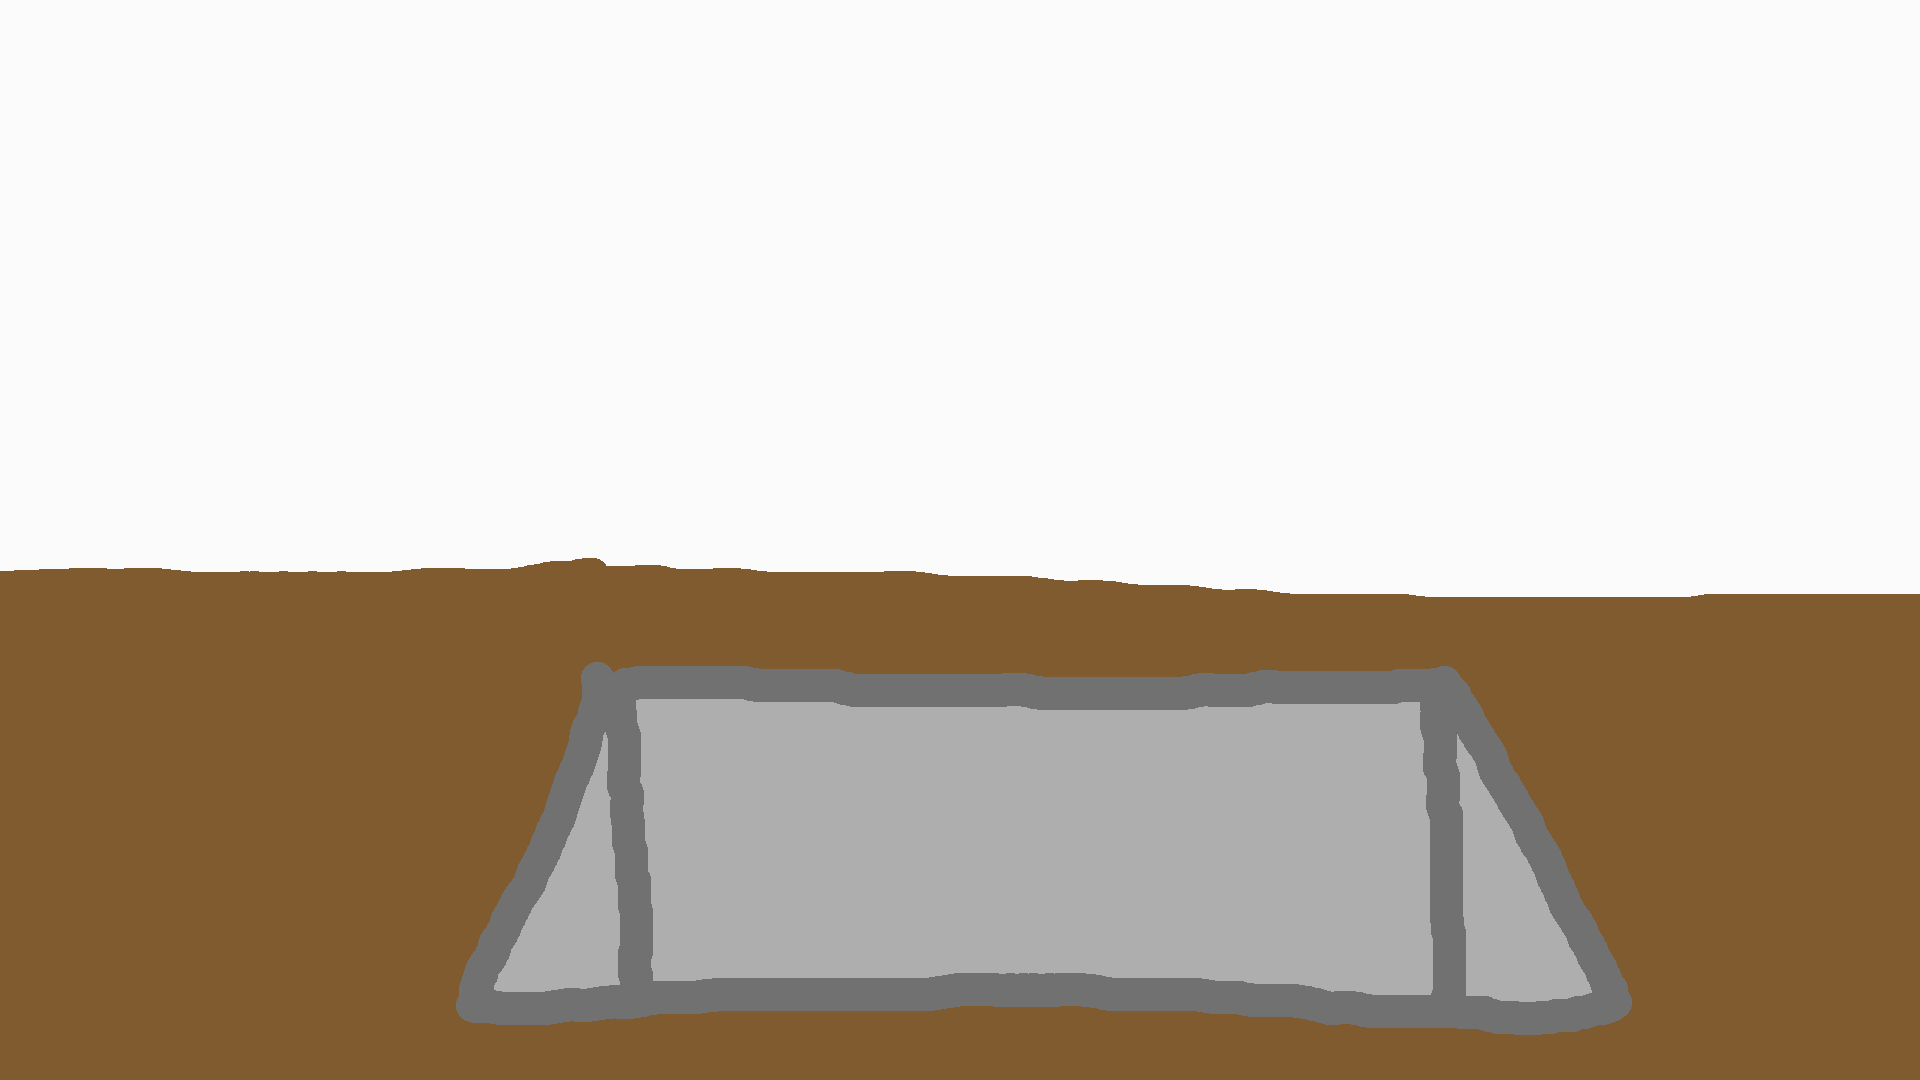
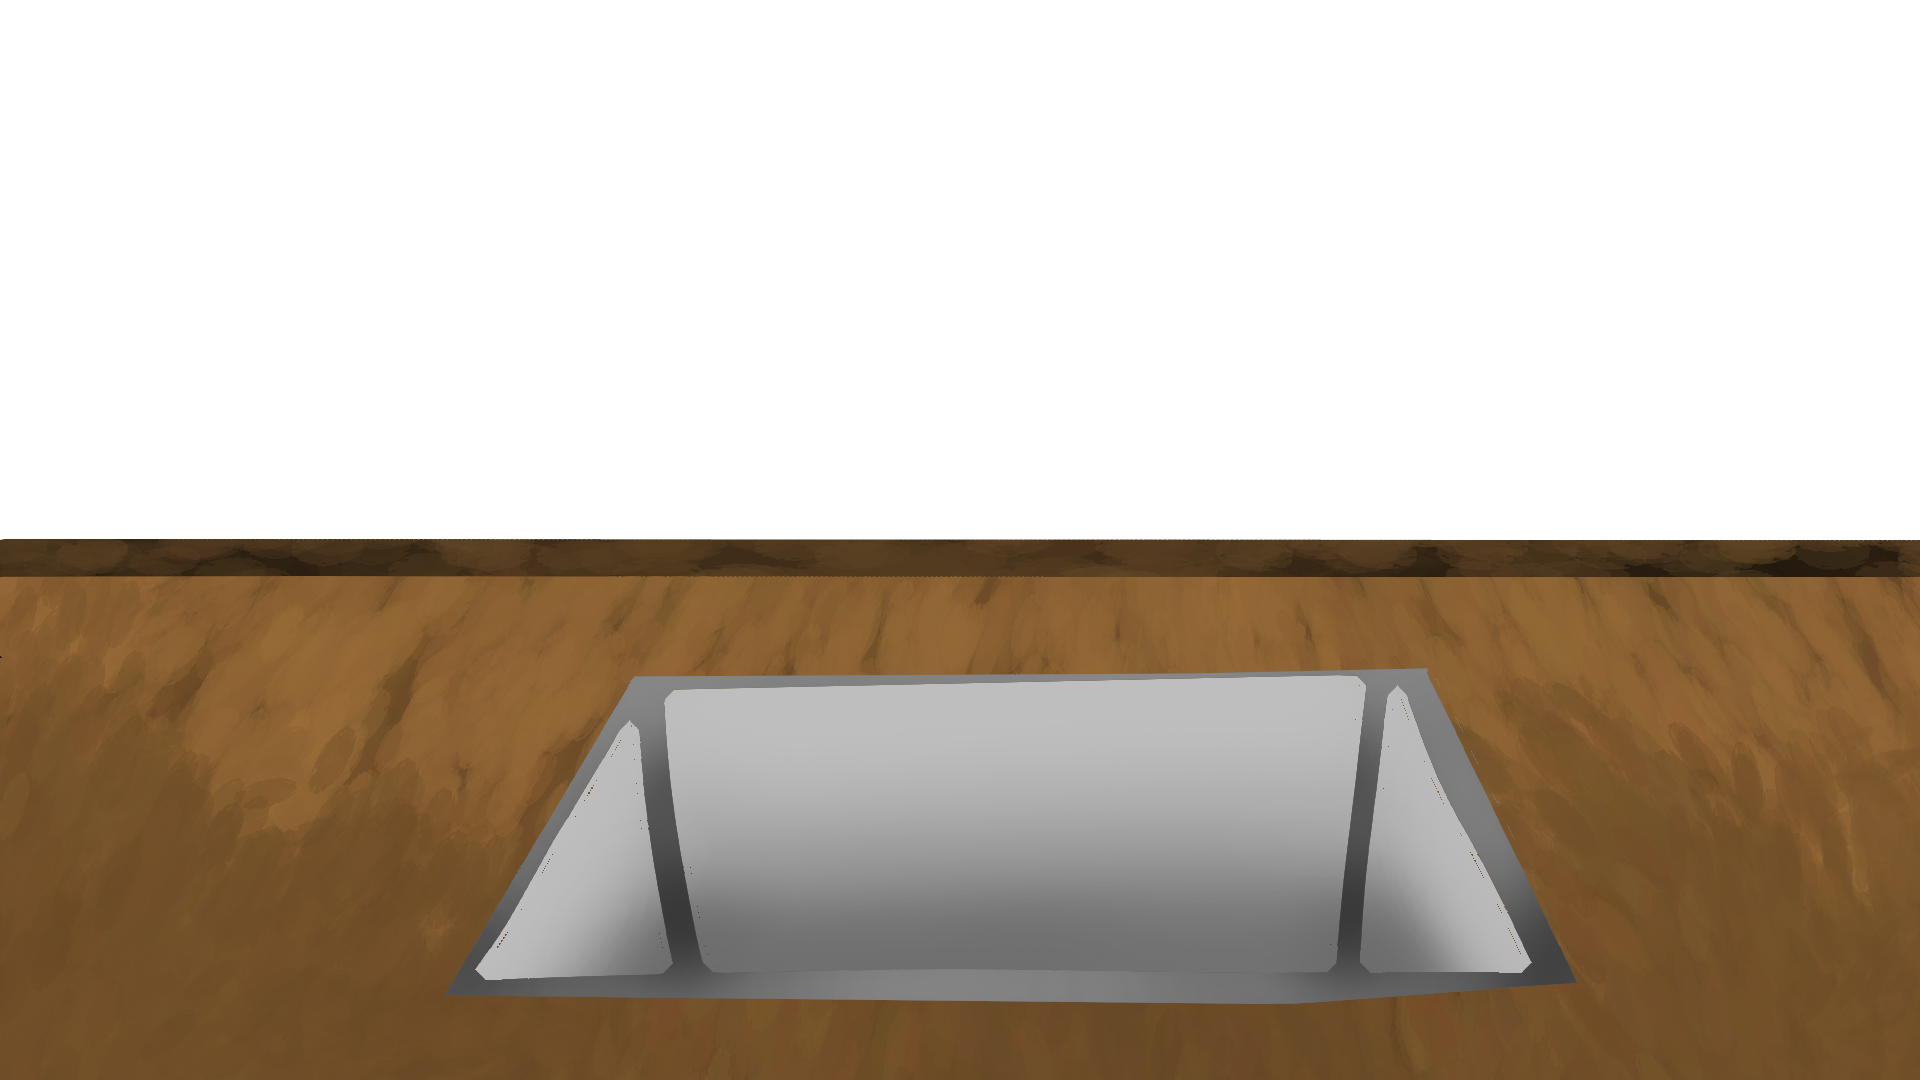
Clean up assets

Changed region(s): [[0.2188, 0.6111, 0.875, 1.0], [0.0, 0.4889, 1.0, 0.5806], [0.25, 0.9778, 0.2812, 1.0]]

diff --git a/src/scenes/BaseScrubScene.ts b/src/scenes/BaseScrubScene.ts
@@ -1,6 +1,4 @@
 import { BaseScene } from "@/scenes/BaseScene";
-import { Player } from "@/components/Player";
-import { UI } from "@/components/UI";
 
 export class BaseScrubScene extends BaseScene {
 	protected texture: Phaser.GameObjects.RenderTexture;
@@ -11,41 +9,28 @@ export class BaseScrubScene extends BaseScene {
 
 	protected progress: number;
 	protected isComplete: boolean;
+	protected lastMousePos: Phaser.Types.Math.Vector2Like;
 
 	constructor(config: Phaser.Types.Scenes.SettingsConfig) {
 		super(config);
-	}
-
-	create(): void {
-		this.fade(false, 200, 0x000000);
-		this.cameras.main.setBackgroundColor(0x777777);
 
 		this.progress = 1;
 		this.isComplete = false;
-
-		// this.initDynamicTexture("test_foreground", this.CX, this.CY, false, false);
-		// this.initDynamicTexture("test_circle", this.CX, this.CY, true, true);
+		this.lastMousePos = { x: 0, y: 0 };
 	}
-
-	update(time: number, delta: number) {
-		// this.dirt.setAlpha(0.5 + 0.5 * Math.sin((4 * time) / 1000));
-		// this.sparkles.setAlpha(0.75 + 0.25 * Math.sin((40 * time) / 1000));
-	}
-
-	/* Mask */
 
 	initDynamicTexture({
 		textureKey,
+		brushKey,
 		centerX = 1920 / 2,
 		centerY = 1080 / 2,
-		asCircle = false,
 		debug = false,
 	}: {
 		textureKey: string;
-		centerX: number;
-		centerY: number;
-		asCircle: boolean;
-		debug: boolean;
+		brushKey: string;
+		centerX?: number;
+		centerY?: number;
+		debug?: boolean;
 	}) {
 		this.progress = 0;
 		this.isComplete = false;
@@ -58,35 +43,23 @@ export class BaseScrubScene extends BaseScene {
 		let { width, height } = this.textures.getFrame(textureKey);
 		this.texture.draw(textureKey, centerX - width / 2, centerY - height / 2);
 
-		this.brush = this.make.image({ key: "brush" }, false);
-		this.brush.setAlpha(0.5);
+		this.brush = this.make.image({ key: brushKey }, false);
+		// this.brush.setAlpha(0.7);
 		this.brush.setScale(this.brushSize / this.brush.width);
 
 		this.clearBrush = this.make.image({ key: "circle" }, false);
 		this.clearBrush.setScale(100);
 
-		let left = centerX - width / 2;
-		let right = centerX + width / 2;
-		let top = centerY - height / 2;
-		let bottom = centerY + height / 2;
-
 		this.dirtParticles = [];
-		let k = 0;
-		for (let x = left; x <= right; x += this.dirtSize / 2) {
-			for (let y = top; y <= bottom; y += this.dirtSize / 2) {
-				// Skip every other
-				if (k++ % 2 == 0) {
-					continue;
-				}
-				// Circle test
-				let dist = Phaser.Math.Distance.Between(x, y, centerX, centerY);
-				if (asCircle && dist > width / 2) {
-					continue;
-				}
-
-				this.dirtParticles.push({ x, y, hp: 1 });
+		const gap = this.dirtSize * Math.SQRT1_2;
+		for (let x = 0; x <= this.W; x += gap) {
+			for (let y = 0; y <= this.W; y += gap) {
+				this.texture.snapshotPixel(x, y, (snapshot: any) => {
+					if (snapshot.a > 0) {
+						this.dirtParticles.push({ x, y, hp: 1 });
+					}
+				});
 			}
-			k++;
 		}
 
 		if (debug) {
@@ -98,13 +71,18 @@ export class BaseScrubScene extends BaseScene {
 	onPointerDown(pointer: Phaser.Input.Pointer) {
 		if (this.isComplete) return;
 
-		for (let i = 0; i < 5; i++) {
-			this.onRub(pointer);
-		}
+		// for (let i = 0; i < 5; i++) {
+		this.onRub(pointer);
+		// }
 	}
 
 	onPointerMove(pointer: Phaser.Input.Pointer) {
 		if (this.isComplete) return;
+
+		// let dist = Phaser.Math.Distance.BetweenPoints(this.lastMousePos, pointer);
+		// if (dist < this.brushSize / 16) return;
+		// this.lastMousePos.x = pointer.x;
+		// this.lastMousePos.y = pointer.y;
 
 		if (pointer.isDown) {
 			this.onRub(pointer);
@@ -145,7 +123,7 @@ export class BaseScrubScene extends BaseScene {
 	drawDebug() {
 		this.dirtDebug.clear();
 		this.dirtParticles.forEach(({ x, y, hp }) => {
-			this.dirtDebug.fillStyle(0xffffff, hp > 0 ? 0.5 : 0);
+			this.dirtDebug.fillStyle(0xff00ff, hp > 0 ? 0.5 : 0);
 			this.dirtDebug.fillCircle(x, y, this.dirtSize / 2);
 		});
 	}

diff --git a/src/scenes/DishesScene.ts b/src/scenes/DishesScene.ts
@@ -1,6 +1,4 @@
 import { BaseScrubScene } from "@/scenes/BaseScrubScene";
-import { Player } from "@/components/Player";
-import { UI } from "@/components/UI";
 
 export class DishesScene extends BaseScrubScene {
 	private background: Phaser.GameObjects.Image;
@@ -16,7 +14,7 @@ export class DishesScene extends BaseScrubScene {
 
 	create(): void {
 		this.fade(false, 200, 0x000000);
-		this.cameras.main.setBackgroundColor(0x777777);
+		this.cameras.main.setBackgroundColor(0x67e8f9);
 
 		/* Objects */
 
@@ -26,10 +24,10 @@ export class DishesScene extends BaseScrubScene {
 
 		this.initDynamicTexture({
 			textureKey: "dishes_dirt",
+			brushKey: "soft_brush",
 			centerX: this.CX,
 			centerY: this.CY,
-			asCircle: true,
-			debug: false,
+			// debug: true,
 		});
 
 		this.sparkles = this.add.image(this.CX, this.CY, "dishes_sparkles");
@@ -37,14 +35,14 @@ export class DishesScene extends BaseScrubScene {
 
 		this.sponge = this.add.image(300, 800, "dishes_sponge");
 
-		this.text = this.addText({
-			x: this.CX,
-			y: 0,
-			size: 60,
-			text: "Do the dishes!",
-			color: "black",
-		});
-		this.text.setOrigin(0.5, 0.0);
+		// this.text = this.addText({
+		// 	x: this.CX,
+		// 	y: 0,
+		// 	size: 60,
+		// 	text: "Eat the cookie, Mato!",
+		// 	color: "black",
+		// });
+		// this.text.setOrigin(0.5, 0.0);
 	}
 
 	update(time: number, delta: number) {
@@ -53,10 +51,11 @@ export class DishesScene extends BaseScrubScene {
 		this.sparkles.setScale(1.0 + 0.05 * Math.sin((8 * time) / 1000));
 	}
 
-	onRub(pointer: Phaser.Input.Pointer): void {
-		super.onRub(pointer);
-
-		this.sponge.setPosition(pointer.x, pointer.y);
+	onPointerMove(pointer: Phaser.Input.Pointer) {
+		super.onPointerMove(pointer);
+		if (pointer.isDown && !this.isComplete) {
+			this.sponge.setPosition(pointer.x, pointer.y);
+		}
 	}
 
 	onComplete(): void {

diff --git a/src/assets/assets.ts b/src/assets/assets.ts
@@ -23,11 +23,11 @@ const images: Image[] = [
 	image("scenes/court/skeletourneyObjection1", "court_skeleton_objection_1"),
 	image("scenes/court/skeletourneyObjection2", "court_skeleton_objection_2"),
 
-	// Testing
-	image("scenes/test_background", "test_background"),
-	image("scenes/test_foreground", "test_foreground"),
-	image("scenes/test_circle", "test_circle"),
-	image("brush", "brush"),
+	// Brushes
+	image("brushes/soft_brush", "soft_brush"),
+	image("brushes/bite_brush", "bite_brush"),
+
+	// Misc
 	image("circle", "circle"),
 ];
 
